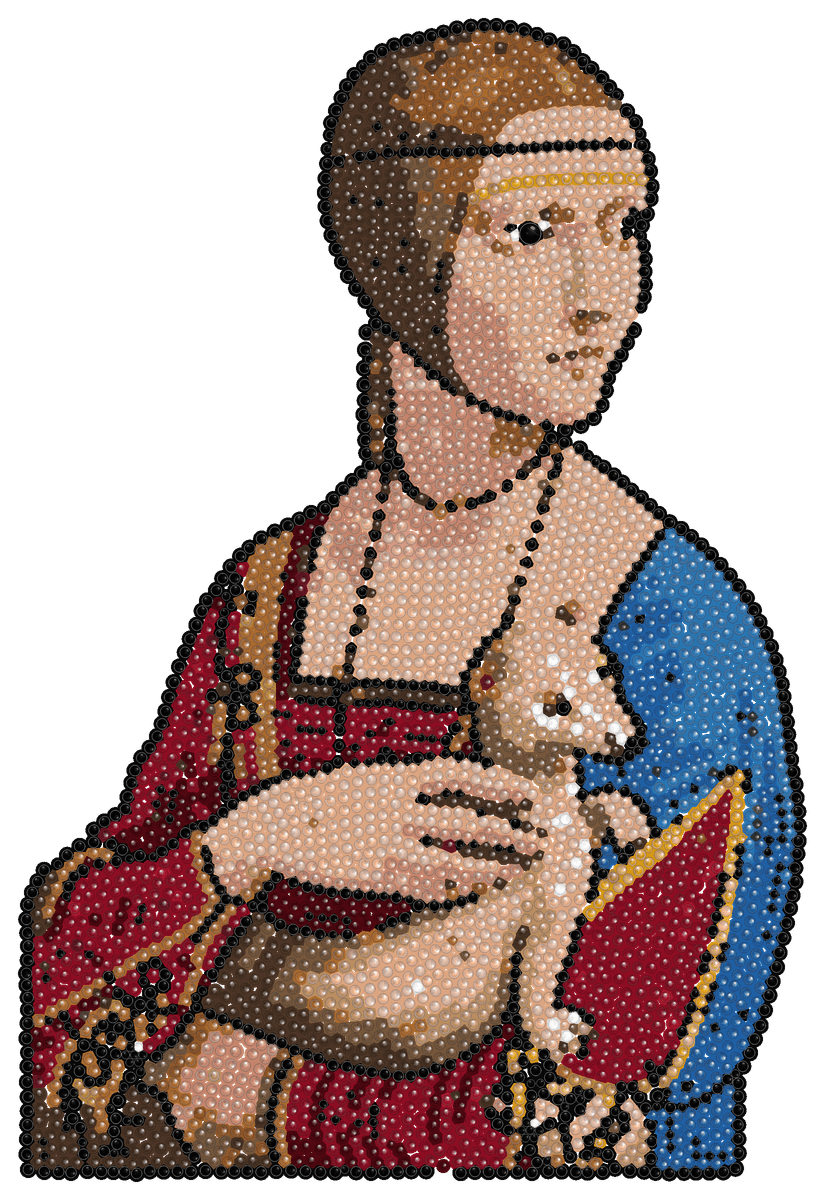
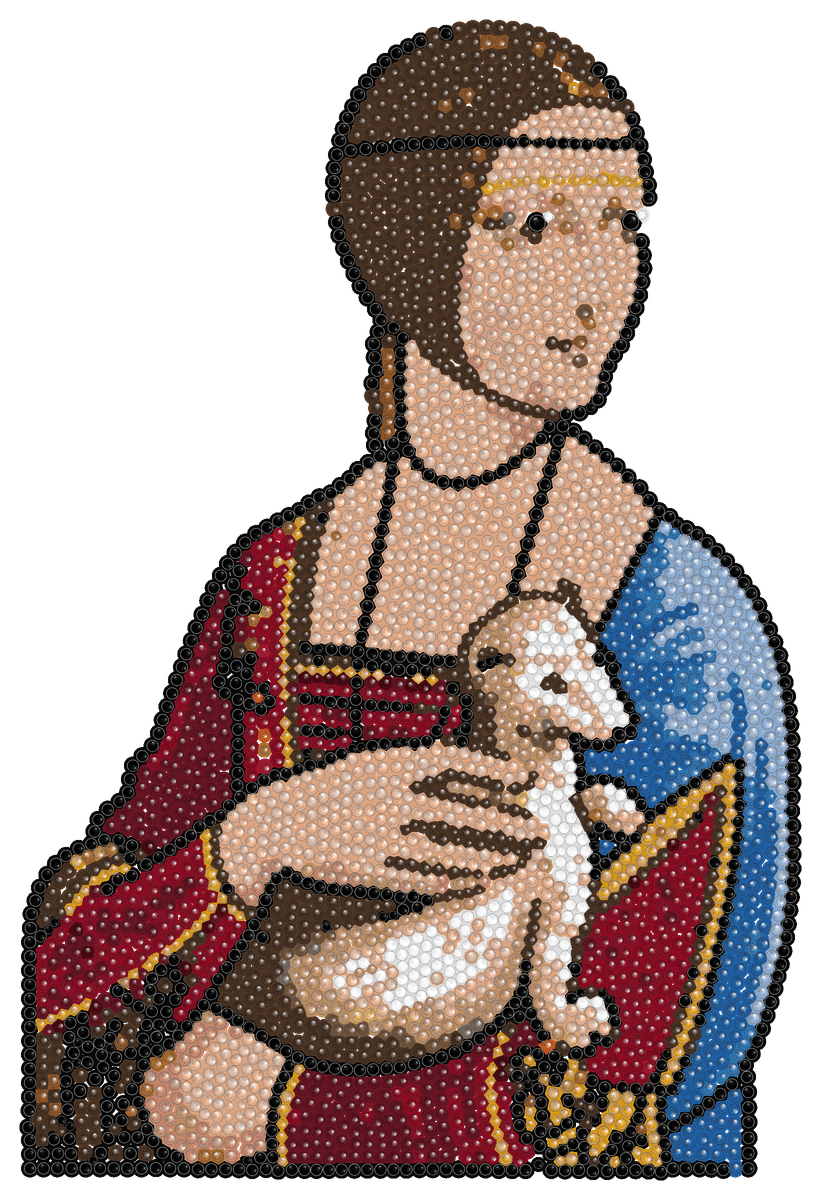
PN-04d follow-up: second Ermine run kept, Ferronnière unchanged
Lady with an Ermine and La Belle Ferronnière made once more with the same
settings (a buyer's Try again; no tuning, no edited stones). The second
Ermine is kept: the ermine is now cream-white with an outline instead of
scattered white stones that looked like holes. The second Ferronnière was
red again, so the first is kept. README and overview.png updated.

diff --git a/docs/listing/README.md b/docs/listing/README.md
@@ -49,11 +49,15 @@ tuning), each on its first try. [portraits/overview.png](portraits/overview.png)
 
 Three public-domain Leonardo portraits of women from Wikimedia Commons (candidates 8–10 in
 [portraits/candidates.json](portraits/candidates.json)), made the same way. Ginevra de' Benci is
-Commons' 4000 px copy of the 10483 × 11110 file, which is over the upload limit. Each was made on
-its first try. The Mona Lisa was left out on purpose.
+Commons' 4000 px copy of the 10483 × 11110 file, which is over the upload limit. The Mona Lisa was
+left out on purpose. Each was made on its first try; Lady with an Ermine and La Belle Ferronnière
+were then made once more, as a buyer's Try again with the same settings. The second Ermine is kept
+(on the first, white stones scattered over the ermine looked like holes). The first Ferronnière is
+kept: the second was red again, because the pipeline turns her dark brownish-red dress bright red
+every time.
 
 | # | Subject | Mode | Stones | Natural size | Photo source | Licence | Use in listing |
 | ---: | --- | --- | ---: | --- | --- | --- | --- |
-| 8 | [painting-ermine](designs/painting-ermine-colour/) | Colour | 4211 | 147.5 × 218.3 mm (5.81 × 8.59 in) | [Wikimedia Commons](https://commons.wikimedia.org/wiki/File:Leonardo_da_Vinci_(1452-1519)_-_Lady_with_an_Ermine_%E2%80%93_Portrait_of_Cecilia_Gallerani_(ca._1473%E2%80%931536)_-_MNK_XII-209_-_National_Museum_Krak%C3%B3w.jpg), National Museum in Kraków | Public domain | not decided |
-| 9 | [painting-ferronniere](designs/painting-ferronniere-colour/) | Colour | 3950 | 143.7 × 217.3 mm (5.66 × 8.56 in) | [Wikimedia Commons](https://commons.wikimedia.org/wiki/File:La_Belle_Ferroni%C3%A8re_-_Google_Arts.jpg), Google Arts & Culture | Public domain | not decided: the brown dress came out red and gold |
+| 8 | [painting-ermine](designs/painting-ermine-colour/) | Colour | 3771 | 137 × 204 mm (5.39 × 8.03 in) | [Wikimedia Commons](https://commons.wikimedia.org/wiki/File:Leonardo_da_Vinci_(1452-1519)_-_Lady_with_an_Ermine_%E2%80%93_Portrait_of_Cecilia_Gallerani_(ca._1473%E2%80%931536)_-_MNK_XII-209_-_National_Museum_Krak%C3%B3w.jpg), National Museum in Kraków | Public domain | not decided |
+| 9 | [painting-ferronniere](designs/painting-ferronniere-colour/) | Colour | 3950 | 143.7 × 217.3 mm (5.66 × 8.56 in) | [Wikimedia Commons](https://commons.wikimedia.org/wiki/File:La_Belle_Ferroni%C3%A8re_-_Google_Arts.jpg), Google Arts & Culture | Public domain | not decided: the dark brownish-red dress comes out bright red with gold |
 | 10 | [painting-ginevra](designs/painting-ginevra-colour/) | Colour | 3660 | 134.7 × 178 mm (5.3 × 7.01 in) | [Wikimedia Commons](https://commons.wikimedia.org/wiki/File:Leonardo_da_Vinci_-_Ginevra_de%27_Benci_-_Google_Art_Project.jpg), Google Art Project | Public domain | not decided: white blotches on the face |
